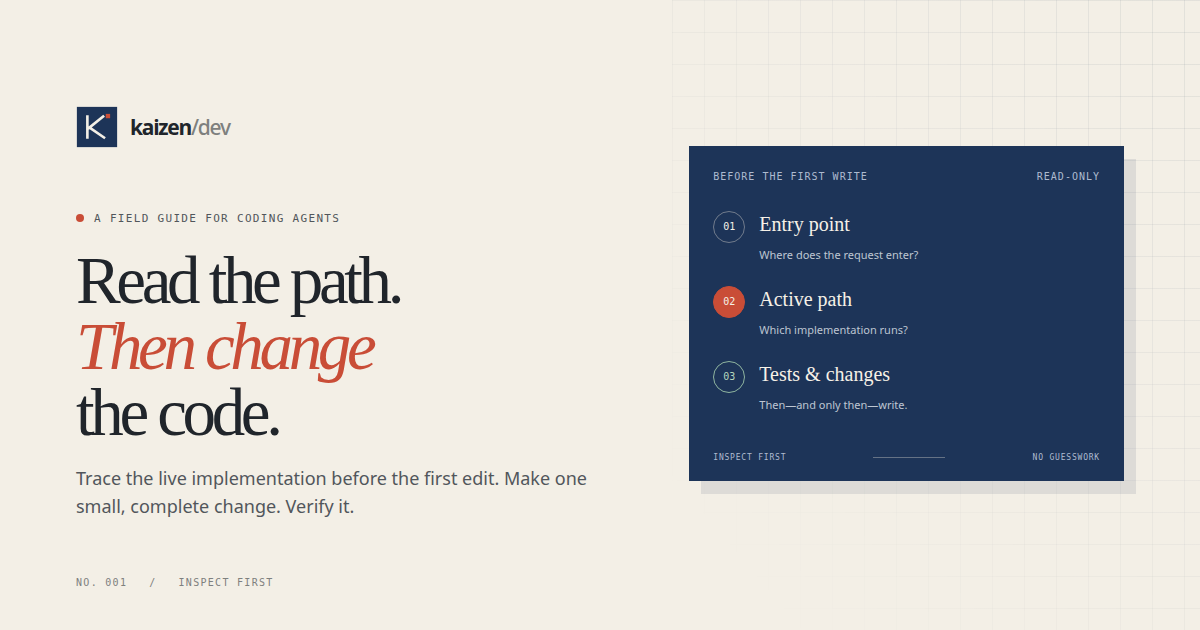
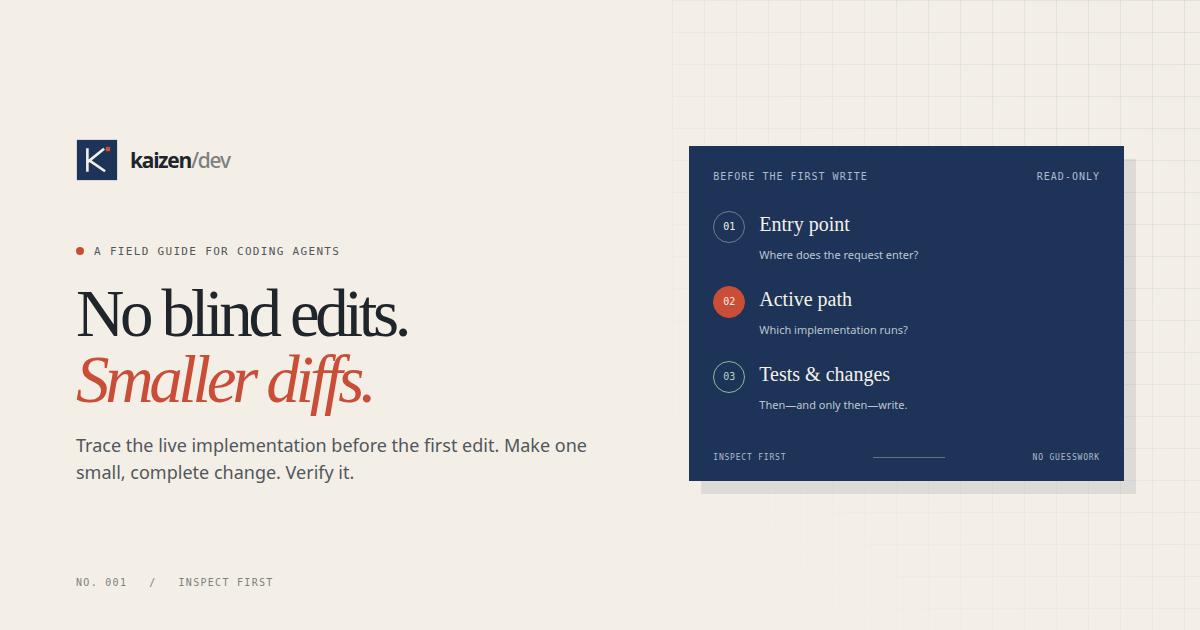
feat: sharpen landing page headlines

Changed region(s): [[0.0617, 0.3921, 0.4933, 0.8143], [0.0617, 0.1508, 0.185, 0.3016], [0.0617, 0.3317, 0.2775, 0.3619]]

diff --git a/site/index.html b/site/index.html
@@ -11,18 +11,18 @@
   <link rel="stylesheet" href="styles.css">
   <meta property="og:type" content="website">
   <meta property="og:site_name" content="Kaizen Dev">
-  <meta property="og:title" content="Read the path. Then change the code. — Kaizen Dev">
+  <meta property="og:title" content="No blind edits. Smaller diffs. — Kaizen Dev">
   <meta property="og:description" content="A portable coding-agent skill for focused, verified changes. Inspect the active code path before the first edit.">
   <meta property="og:url" content="https://grejojoby.github.io/kaizen-dev/">
   <meta property="og:image" content="https://grejojoby.github.io/kaizen-dev/assets/og-card.png">
   <meta property="og:image:width" content="1200">
   <meta property="og:image:height" content="630">
-  <meta property="og:image:alt" content="Kaizen Dev: read the path, then change the code. A focused workflow for coding agents.">
+  <meta property="og:image:alt" content="Kaizen Dev: No blind edits. Smaller diffs. A focused workflow for coding agents.">
   <meta name="twitter:card" content="summary_large_image">
-  <meta name="twitter:title" content="Read the path. Then change the code. — Kaizen Dev">
+  <meta name="twitter:title" content="No blind edits. Smaller diffs. — Kaizen Dev">
   <meta name="twitter:description" content="A portable coding-agent skill for focused, verified changes. Inspect the active code path before the first edit.">
   <meta name="twitter:image" content="https://grejojoby.github.io/kaizen-dev/assets/og-card.png">
-  <title>Read the path. Then change the code. — Kaizen Dev</title>
+  <title>No blind edits. Smaller diffs. — Kaizen Dev</title>
 </head>
 <body>
   <a class="skip-link" href="#main">Skip to content</a>
@@ -48,7 +48,7 @@
     <section class="hero section-wrap" id="top" aria-labelledby="hero-title">
       <div class="hero-copy">
         <p class="eyebrow"><span class="eyebrow-dot"></span> A field guide for coding agents <span class="eyebrow-index">No. 001</span></p>
-        <h1 id="hero-title">Read the path.<br><span>Then change</span><br>the code.</h1>
+        <h1 id="hero-title">No blind edits.<br><span>Smaller diffs.</span></h1>
         <p class="hero-lede">Kaizen Dev helps coding agents understand the real implementation before editing—then make one small, complete fix and prove what was checked.</p>
         <div class="hero-actions">
           <a class="button button-primary" href="#install">Install the skill <span aria-hidden="true">↓</span></a>
@@ -102,7 +102,7 @@
     <section class="method-section section-wrap" id="method" aria-labelledby="method-title">
       <div class="section-kicker"><span>THE PRACTICE</span><span>02 — 06</span></div>
       <div class="section-heading">
-        <h2 id="method-title">A calm loop.<br><em>Every task.</em></h2>
+        <h2 id="method-title">One loop. Five steps.<br><em>No guesswork.</em></h2>
         <p>Not more process for its own sake. A short sequence that keeps the agent close to the request, the code, and the evidence.</p>
       </div>
       <ol class="method-list">
@@ -118,7 +118,7 @@
       <div class="path-layout section-wrap">
         <div class="path-copy">
           <p class="section-label"><span class="red-rule"></span> THE IMPORTANT GATE</p>
-          <h2 id="path-title">A familiar filename<br>isn’t the <em>live path.</em></h2>
+          <h2 id="path-title">Find what runs.<br><em>Fix that.</em></h2>
           <p>Agents can find three helpers named “retry” and still pick the wrong one. Kaizen Dev asks them to trace callers from the entry point, confirm the helper is actually used, then read the tests before the first edit.</p>
           <a class="arrow-link" href="https://github.com/grejojoby/kaizen-dev/blob/main/evals/cases.json" target="_blank" rel="noreferrer">See the path-tracing evaluation <span aria-hidden="true">↗</span></a>
         </div>
@@ -135,7 +135,7 @@
     <section class="principles-section section-wrap" id="principles" aria-labelledby="principles-title">
       <div class="section-kicker"><span>ROOTED IN PRACTICE</span><span>NOT A STEREOTYPE</span></div>
       <div class="section-heading principles-heading">
-        <h2 id="principles-title">Japanese roots.<br><em>Practical rules.</em></h2>
+        <h2 id="principles-title">Four principles.<br><em>One better loop.</em></h2>
         <p>These ideas are adapted from Japanese manufacturing and reflection practices for software work. They are not claims about how every Japanese developer writes code.</p>
       </div>
       <div class="principle-list">
@@ -171,7 +171,7 @@
       <div class="install-layout section-wrap">
         <div class="install-copy">
           <p class="section-label"><span class="red-rule"></span> READY WHEN YOU ARE</p>
-          <h2 id="install-title">Add one small<br><em>skill. Start there.</em></h2>
+          <h2 id="install-title">Give your agent<br><em>a smarter start.</em></h2>
           <p>Claude Code first. No framework, API key, or project changes. Review the skill before installing—it runs with your agent’s permissions.</p>
           <div class="install-meta"><span>01</span><span>NODE + NPM</span><span>GLOBAL CLAUDE CODE INSTALL</span></div>
         </div>
@@ -192,7 +192,7 @@
       <div class="opensource-mark" aria-hidden="true">↗</div>
       <div class="opensource-copy">
         <p class="section-label">OPEN SOURCE, OPEN TO IMPROVEMENT</p>
-        <h2 id="open-source-title">Try it on a real task.<br><em>Help us make it better.</em></h2>
+        <h2 id="open-source-title">Try it. Break it.<br><em>Make it better.</em></h2>
         <p>No performance claims without evidence. Bring a task, inspect the behavior, and add what you learn to the evaluation cases.</p>
       </div>
       <div class="opensource-actions">

diff --git a/scripts/social-card.html b/scripts/social-card.html
@@ -40,7 +40,7 @@
         <span>kaizen<span class="slash">/dev</span></span>
       </div>
       <p class="label"><span class="dot"></span> A field guide for coding agents</p>
-      <h1>Read the path.<br><em>Then change</em><br>the code.</h1>
+      <h1>No blind edits.<br><em>Smaller diffs.</em></h1>
       <p class="description">Trace the live implementation before the first edit. Make one small, complete change. Verify it.</p>
       <div class="index">NO. 001 &nbsp; / &nbsp; INSPECT FIRST</div>
     </section>

diff --git a/CHANGELOG.md b/CHANGELOG.md
@@ -6,4 +6,5 @@
 - Define the inspect, bound, change, verify, review, and report workflow.
 - Add principles, research sources, worked example, qualitative evaluation cases, contribution templates, and repository validation.
 - Add a static Japanese-principle-inspired product landing page and GitHub Pages deployment workflow.
+- Refresh product headlines and the social preview to foreground focused, no-blind-edit changes.
 - No model benchmark or cross-agent compatibility test is claimed in this draft.
